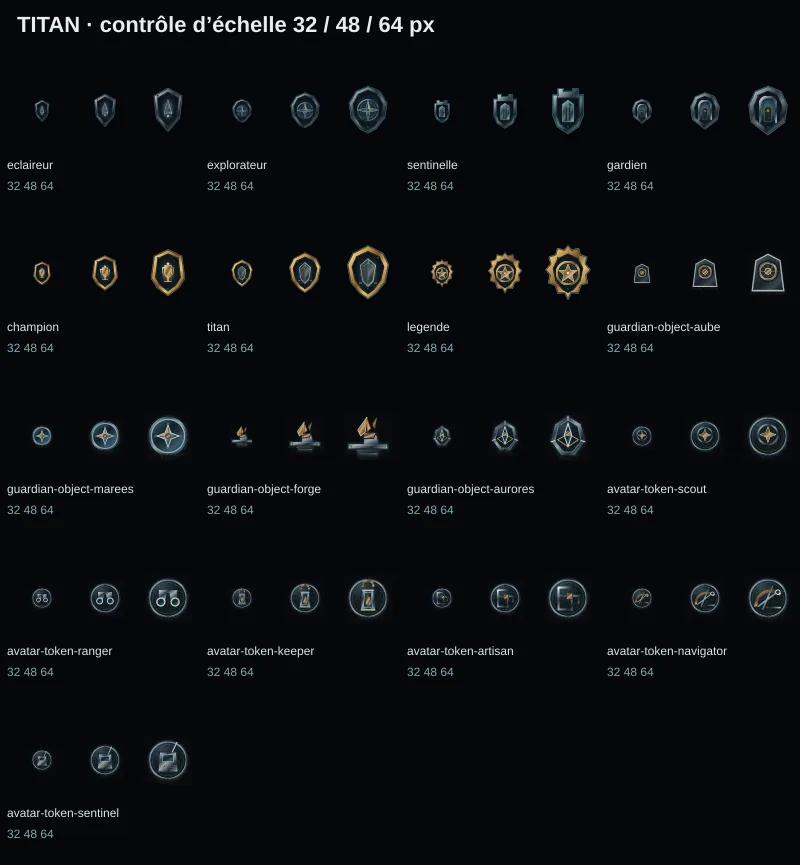
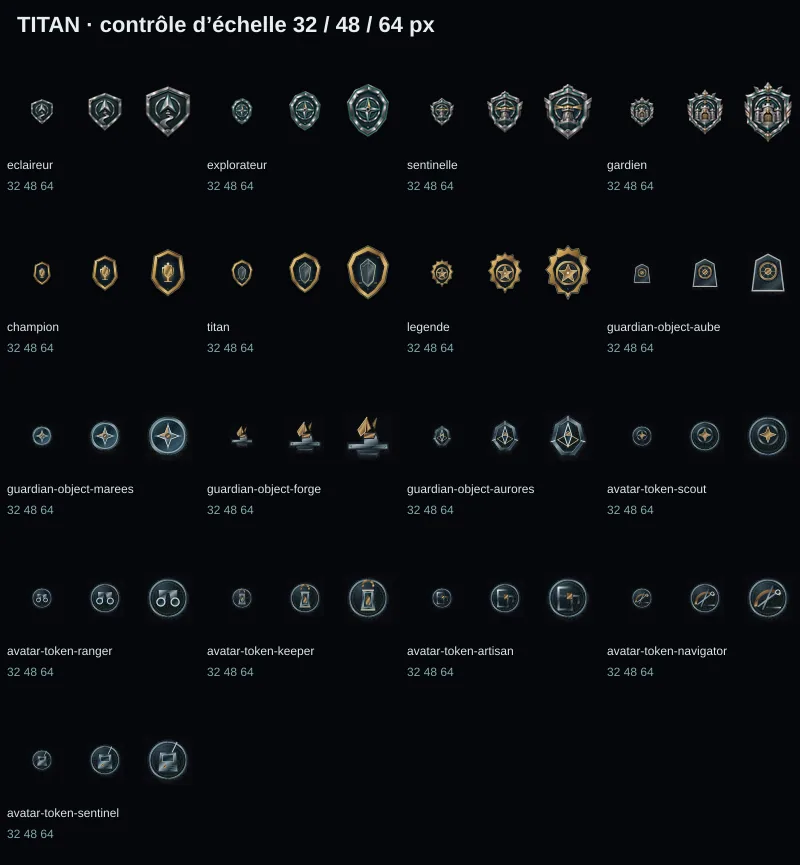
design(titan): exports and review gallery [skip art]

diff --git a/design/titan-visual-library/global-v2/preview/GALLERY.md b/design/titan-visual-library/global-v2/preview/GALLERY.md
@@ -1,35 +1,13 @@
 # TITAN — Galerie globale v2
 
-## Blasons approuvés — 4 grades (14 novembre 2026)
+**PROPOSED — approbation requise. Aucun asset integre au code ni deploye.**
 
-![Éclaireur et Explorateur](./contact-approved-ranks.webp)
-
-![Sentinelle et Gardien](./contact-approved-ranks-lot2.webp)
-
-**Approuvés par le propriétaire** — masters PNG RGBA transparents (1254 px), exports PNG 512 et WebP 512/256/96. **Non encore intégrés dans les interfaces actives Web/Android.**
-
-| Grade | Master | PNG 512 | WebP 512 | WebP 256 | WebP 96 |
-|---|---|---|---|---|---|
-| Éclaireur | [PNG](../approved/masters/ranks/eclaireur.png) | [PNG](../approved/exports/ranks/eclaireur-512.png) | [512](../approved/exports/ranks/eclaireur-512.webp) | [256](../approved/exports/ranks/eclaireur-256.webp) | [96](../approved/exports/ranks/eclaireur-96.webp) |
-| Explorateur | [PNG](../approved/masters/ranks/explorateur.png) | [PNG](../approved/exports/ranks/explorateur-512.png) | [512](../approved/exports/ranks/explorateur-512.webp) | [256](../approved/exports/ranks/explorateur-256.webp) | [96](../approved/exports/ranks/explorateur-96.webp) |
-| Sentinelle | [PNG](../approved/masters/ranks/sentinelle.png) | [PNG](../approved/exports/ranks/sentinelle-512.png) | [512](../approved/exports/ranks/sentinelle-512.webp) | [256](../approved/exports/ranks/sentinelle-256.webp) | [96](../approved/exports/ranks/sentinelle-96.webp) |
-| Gardien | [PNG](../approved/masters/ranks/gardien.png) | [PNG](../approved/exports/ranks/gardien-512.png) | [512](../approved/exports/ranks/gardien-512.webp) | [256](../approved/exports/ranks/gardien-256.webp) | [96](../approved/exports/ranks/gardien-96.webp) |
-
-Les anciennes propositions restent archivées sous `proposed/`.
-
-
-**Éclaireur, Explorateur, Sentinelle et Gardien approuvés. Champion, Titan et Légende attendent approbation ; aucune intégration Web/Android ni publication.**
-
-Originals vectoriels: 138 | Retouches des visuels existants: 15 | PNG: 157 | WebP: 318
+Originals vectoriels: 134 | Retouches des visuels existants: 15 | PNG: 153 | WebP: 310
 
 ## Grades TITAN
 
 ![Contact sheet ranks](./contact-ranks.webp)
 
-- [eclaireur](../proposed/masters/ranks/eclaireur.svg) — Éclaireur — **proposed** — [export](../proposed/exports/ranks/eclaireur-512.png) [export](../proposed/exports/ranks/eclaireur-256.webp) [export](../proposed/exports/ranks/eclaireur-96.webp)
-- [explorateur](../proposed/masters/ranks/explorateur.svg) — Explorateur — **proposed** — [export](../proposed/exports/ranks/explorateur-512.png) [export](../proposed/exports/ranks/explorateur-256.webp) [export](../proposed/exports/ranks/explorateur-96.webp)
-- [sentinelle](../proposed/masters/ranks/sentinelle.svg) — Sentinelle — **proposed** — [export](../proposed/exports/ranks/sentinelle-512.png) [export](../proposed/exports/ranks/sentinelle-256.webp) [export](../proposed/exports/ranks/sentinelle-96.webp)
-- [gardien](../proposed/masters/ranks/gardien.svg) — Gardien — **proposed** — [export](../proposed/exports/ranks/gardien-512.png) [export](../proposed/exports/ranks/gardien-256.webp) [export](../proposed/exports/ranks/gardien-96.webp)
 - [champion](../proposed/masters/ranks/champion.svg) — Champion — **proposed** — [export](../proposed/exports/ranks/champion-512.png) [export](../proposed/exports/ranks/champion-256.webp) [export](../proposed/exports/ranks/champion-96.webp)
 - [titan](../proposed/masters/ranks/titan.svg) — Titan — **proposed** — [export](../proposed/exports/ranks/titan-512.png) [export](../proposed/exports/ranks/titan-256.webp) [export](../proposed/exports/ranks/titan-96.webp)
 - [legende](../proposed/masters/ranks/legende.svg) — Légende — **proposed** — [export](../proposed/exports/ranks/legende-512.png) [export](../proposed/exports/ranks/legende-256.webp) [export](../proposed/exports/ranks/legende-96.webp)
